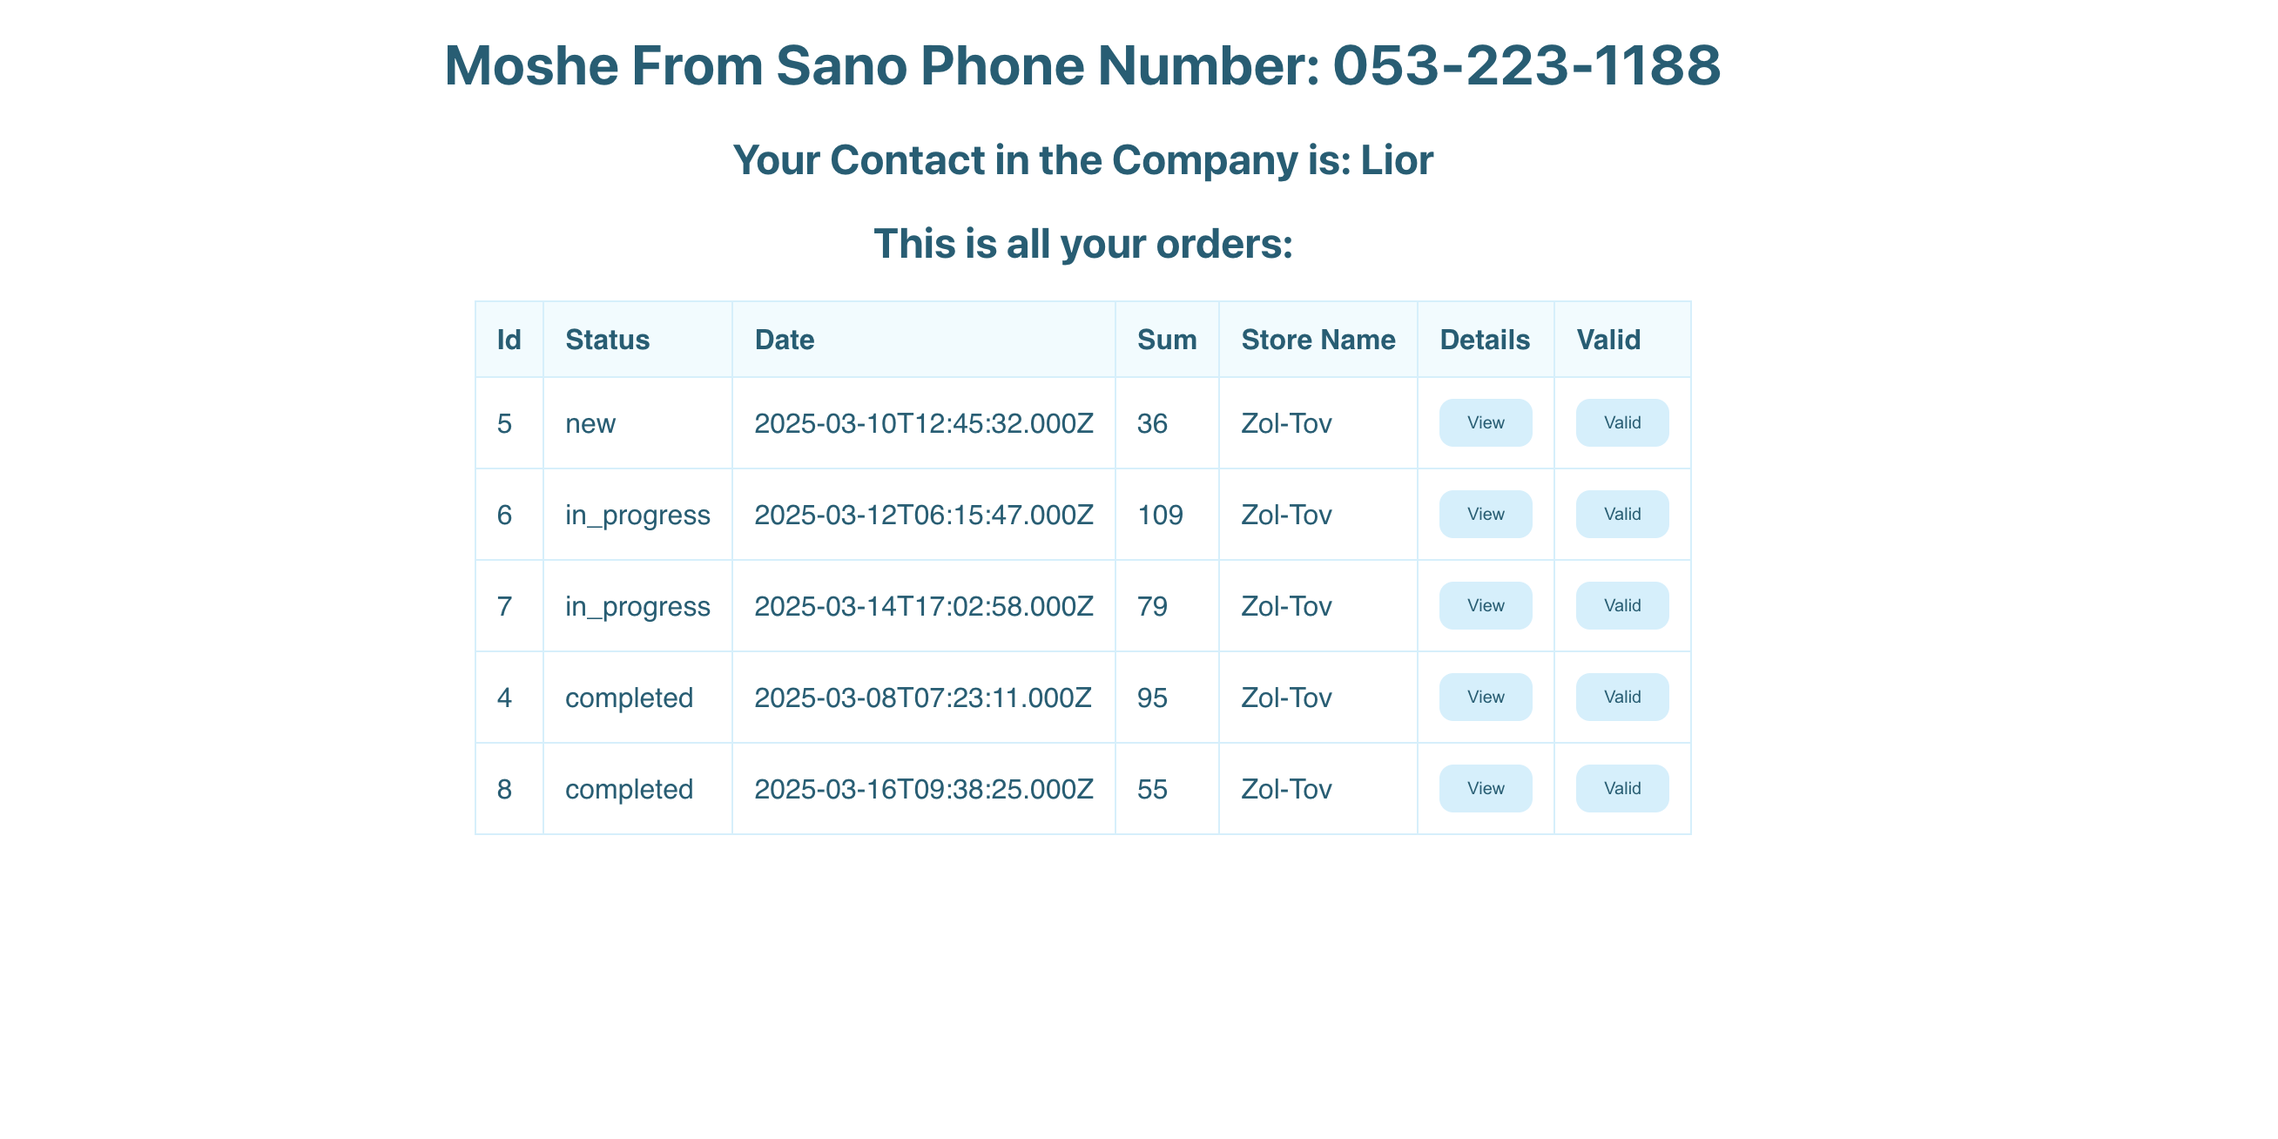
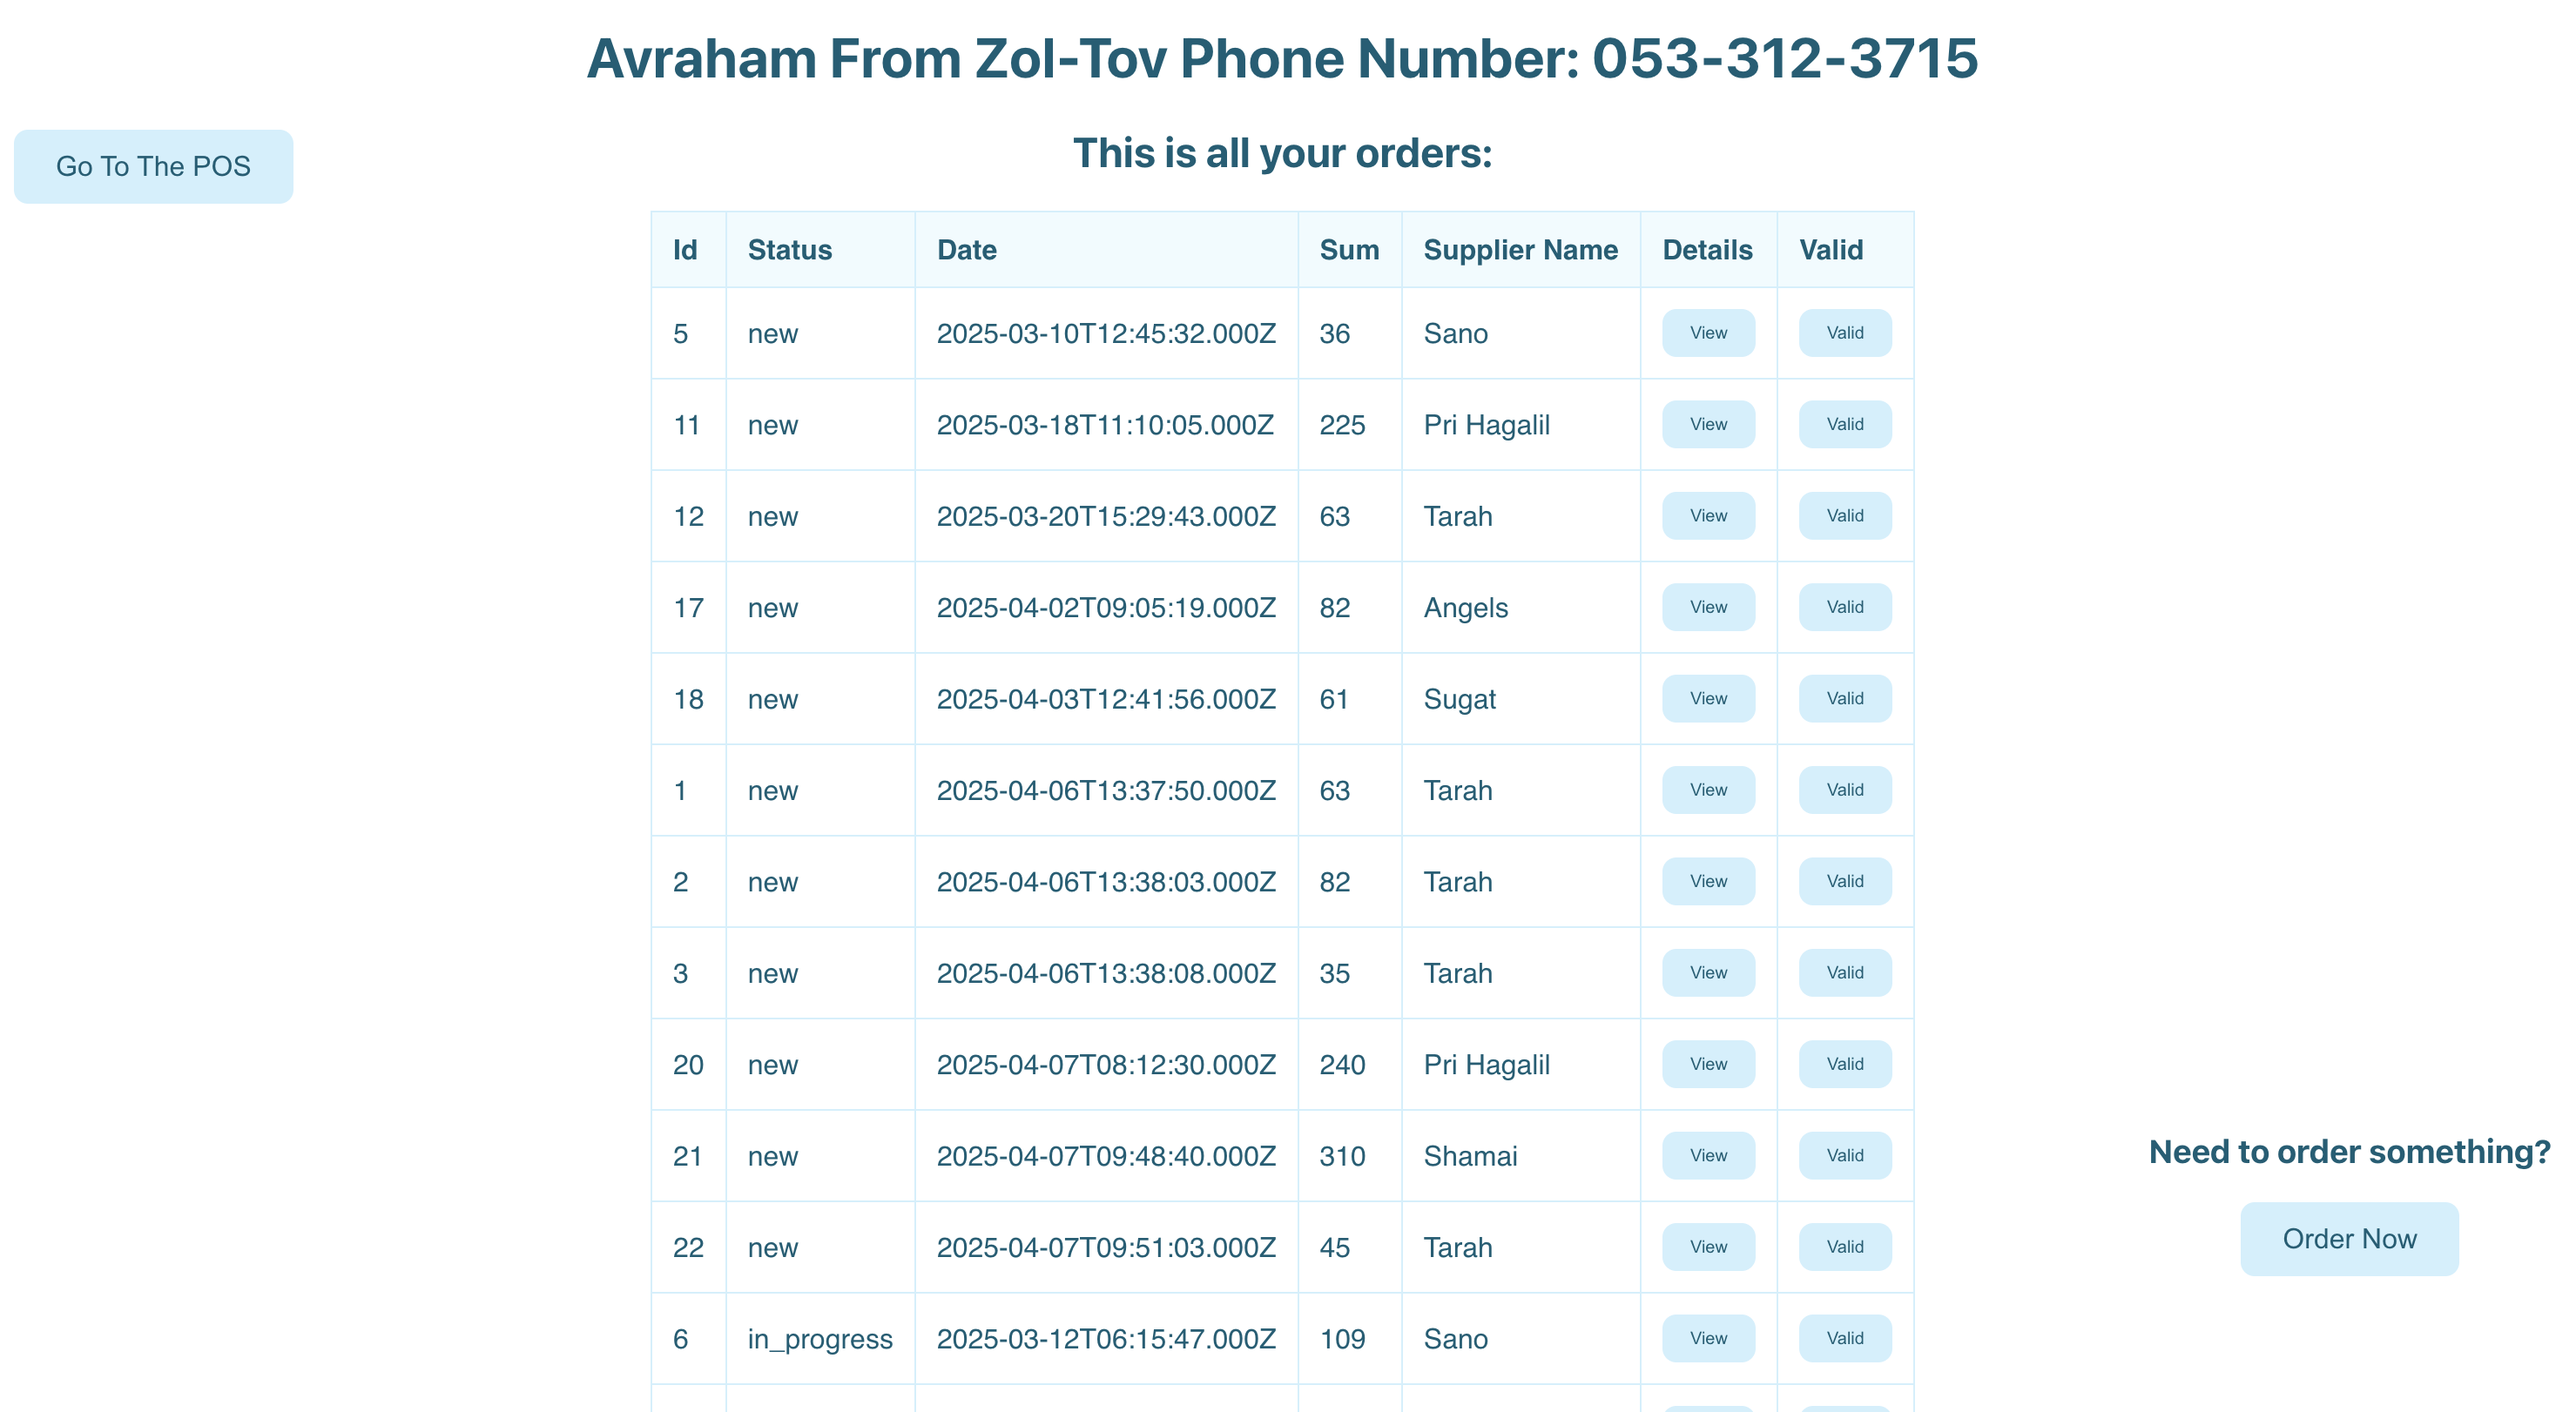
init the file for the POS

diff --git a/Part D/client/src/components/OrdersList.js b/Part D/client/src/components/OrdersList.js
@@ -124,7 +124,7 @@ export default function OrdersList(props) {
           <h1>{props.userData.username} From {props.userData.company_name} Phone Number: {props.userData.phone_number}</h1>
           {props.userData.user_type_id === 1 ? 
           <h2>Your Contact in the Company is: {props.userData.contact_person}</h2> : 
-          <h2></h2>}
+          <button className="POS" onClick={() => Navigate('/PointOfSales')}>Go To The POS</button>}
           <h2>This is all your orders:</h2>
           {ordersList &&
             <table className="myTable">
@@ -156,7 +156,7 @@ export default function OrdersList(props) {
           }
           {props.userData.user_type_id === 1 ?
             <div></div> :
-            <div><h3>Need to order something?</h3><button className="myButton" onClick={() => Navigate('/NewOrder')}>Order Now</button></div>}
+            <div className="newOrder"><h3>Need to order something?</h3><button className="myButton" onClick={() => Navigate('/NewOrder')}>Order Now</button></div>}
         </div>
       }
       {view && <OrderDetails userData={props.userData} orderId={orderId} validOrder={validOrder} setView={setView} />}

diff --git a/Part D/client/src/components/Main.js b/Part D/client/src/components/Main.js
@@ -4,6 +4,7 @@ import LogIn from "./LogIn";
 import SignUp from "./SignUp";
 import OrdersList from "./OrdersList";
 import NewOrder from "./NewOrder";
+import POS from "./POS";
 
 export default function Main() {
 
@@ -27,6 +28,7 @@ export default function Main() {
             <Routes>getUserValues
                 <Route exact element={<LogIn userData={userData} getUserValues={getUserValues} />} path='/' />
                 <Route exact element={<SignUp userData={userData} setUserData={setUserData} />} path='/SignUp' />
+                <Route exact element={<POS userData={userData} />} path='/PointOfSales' />
                 <Route exact element={<OrdersList userData={userData}/>} path='/OrderList' />
                 <Route exact element={<NewOrder />} path='/NewOrder' />
             </Routes>

diff --git a/Part D/client/src/App.css b/Part D/client/src/App.css
@@ -40,6 +40,21 @@
   transition: background-color 0.3s ease, transform 0.2s ease;
 }
 
+.POS{
+  position: fixed;
+  top: 10%;
+  left: 20px;
+  background-color: #d0f0fd;
+  color: #045f75; 
+  padding: 12px 24px;
+  font-size: 16px;
+  border: none;
+  border-radius: 8px;
+  cursor: pointer;
+  transition: background-color 0.3s ease, transform 0.2s ease;
+}
+
+.POS:hover,
 .tableButton:hover,
 .myButton:hover {
   background-color: #b8e9fb;
@@ -63,4 +78,10 @@
 .myTable th {
   background-color: #f0fbff; /* כותרת בגוון תכלת ממש חלש */
   color: #045f75;            /* טקסט תכלת כהה */
+}
+
+.newOrder{
+  position: fixed;
+  bottom: 10%;
+  right: 20px;
 }

diff --git a/Part D/server/index.js b/Part D/server/index.js
@@ -5,6 +5,7 @@ const port = 2000;
 import logInRouter from './routes/usersRouter.js';
 import catalogsRouter from './routes/catalogsRouter.js';
 import ordersRouter from './routes/ordersRouter.js';
+import salesRouter from './routes/salesRouter.js';
 
 app.use(json());
 app.use(urlencoded({ extended: true, }));
@@ -26,6 +27,9 @@ app.use('/api/catalogs', catalogsRouter);
 
 // manage the orders
 app.use('/api/orders', ordersRouter);
+
+// for the
+app.use('/api/sales', salesRouter);
 
 app.get("/", (req, res) => {
   res.json({ message: "ok" });

diff --git a/Part D/server/routes/salesRouter.js b/Part D/server/routes/salesRouter.js
@@ -1,0 +1,10 @@
+import { Router } from 'express';
+const router = Router();
+import salesService from '../services/salesService.js';
+
+router.get('/', async (req, res) => {
+    let results = await salesService.getSales();
+    res.json(results);
+});
+
+export default router;

diff --git a/Part D/client/src/components/POS.js b/Part D/client/src/components/POS.js
@@ -1,0 +1,6 @@
+import { useState } from "react";
+import { useNavigate } from "react-router-dom";
+
+export default function POS(props) {
+    return <>Hello</>
+}
